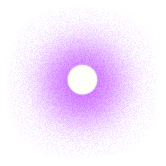
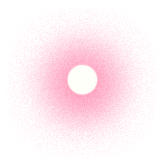
info location and custom bckground system

Changed region(s): [[0.2108, 0.2108, 0.7831, 0.7831]]

diff --git a/index.html b/index.html
@@ -66,9 +66,21 @@
         </div>
 
         <!-- STATIC -->
+        <div id="zero">
+            <div class="flex">
+                <h1>EARTHRISE<br>Zhōuwéi Network</h1>
+                <h2>A Hybrid Reality Game</h2>
+                <br>
+                <img src="intro.png" />
+                <br><br>
+                <button style='min-width: 100px;' onclick="$('#intro').fadeIn();$('#zero').fadeOut();">START!</button>
+            </div>
+        </div>
+
+        <!-- STATIC -->
         <div id="intro" style="position: absolute; z-index: 500;">
             <div class="flex">
-                <h1>EARTHRISE <br> Zhōuwéi Network</h1>
+                <h1>EARTHRISE<br>Zhōuwéi Network</h1>
                 <h2>A Hybrid Reality Game</h2>
                 <p>✦ Use of headphones and mobile data is recommended for best experience.</p>
                 <p>✧ This game can be played in one or multiple days.</p>
@@ -79,17 +91,35 @@
                 <br>
                 <br>
                 <div>
-                    <button onclick="reloadIntro();">Reload Audio</button>
-                    <button onclick="skipIntro();">Skip Audio</button>
+                    <button style='min-width: 100px;' onclick="reloadIntro();">Reload Audio</button>
+                    <button style='min-width: 100px;' onclick="skipIntro();">Skip Audio</button>
                 </div>
             </div>
         </div>
+
+        <div id="storyline" style="position: absolute; z-index: 500;">
+            <div class="story">
+            <div class="flex">
+                    <h1>Welcome</h1>
+                    <br>                
+                    <p>Three parallel future time zones of 2041 are rising from the soil beneath the city of rotterdam.<br><br>
+                    Find the different sceneries which showcase one of these worlds to discover their hidden societies. Learn their secret language and find their hidden messages to make contact and complete the six main locations to be led to the final stage in which you will be trusted with a glimpse of the future. Play it all in one go or spread it out over a few days and return.</p>                       
+                    <br> 
+            <button style='min-width: 100px;' onclick="$('#instructions').fadeIn(); $('#storyline').fadeOut();">Next</button>
+            <br> 
+            <br> 
+            <br> 
+            <br> 
+            <br> 
+            </div>
+        </div>
+        </div>
+
         <div id="instructions" style="position: absolute; z-index: 500;">
             <div class="flex">
-                <div class="scroll">
-                    <p>Three parallel future time zones of 2041 are rising from the soil beneath the city of rotterdam.<br><br>
-                    Find the different sceneries which showcase one of these worlds to discover their hidden societies. Learn their secret language and find their hidden messages to make contact and complete the six main locations to be led to the final stage in which you will be trusted with a glimpse of the future. Play it all in one go or spread it out over a few days and return.</p>
-                    <h1>Instructions</h1>                   
+                <div class="scroll">             
+                    <h1>Instructions</h1>   
+                    <br>                
                     <p>✧ Smartphone and headphones needed!</p>
                     <p>✦ Find symbol in given location on map</p>
                     <p>✧ Translate symbol with dictionary inside app</p>
@@ -99,7 +129,7 @@
                     <p>✧ Game will give you your next location</p>
                     <p>✦ Complete six locations for the game to reveal your final spot</p><br>
                 </div>
-            <button onclick="checkCookies(); location.reload()">Close Me</button>
+            <button style='min-width: 100px;' onclick="checkCookies(); location.reload()">Start the Game</button>
             </div>
         </div>
 
@@ -107,7 +137,8 @@
         <div id="instructionsButton" style="position: absolute; z-index: 300;">
             <div class="flex">
                 
-                <h1>Instructions</h1>                   
+                <h1>Instructions</h1>
+                <br>                    
                 <p>✧ Smartphone and headphones needed!</p>
                 <p>✦ Find symbol in given location on map</p>
                 <p>✧ Translate symbol with dictionary inside app</p>
@@ -193,7 +224,6 @@
             <div class="flex">
             <h1>2041</h1>
             <img id="bigWhite" src="worlds/white.png" />
-            <button onclick="realEnd()">Start Again</button>
         </div>
         </div>        
 
@@ -211,7 +241,7 @@
                 $('#intro').fadeOut()
                 intromp3.pause()
                 intromp3.currentTime=0;
-                $('#instructions').fadeIn()
+                $('#storyline').fadeIn()
 
             }
 

diff --git a/app.js b/app.js
@@ -153,13 +153,13 @@ var customIconBack={
 }
 
 var flexBck={
-  "x1": "linear-gradient(129deg, #c7c7c7,#4b4b4b);",
-  "x2": "linear-gradient(129deg, #c7c7c7,#4b4b4b);",
-  "x3": "linear-gradient(129deg, #c7c7c7,#4b4b4b);",
-  "x4": "linear-gradient(129deg, #c7c7c7,#4b4b4b);",
-  "x5": "linear-gradient(129deg, #c7c7c7,#4b4b4b);",
-  "x6": "linear-gradient(129deg, #c7c7c7,#4b4b4b);",
-  "x7": "linear-gradient(129deg, #c7c7c7,#4b4b4b);"
+  "x1": "linear-gradient(129deg, #6e66cf,#fd729f)",
+  "x2": "linear-gradient(129deg, #6e66cf,#fd729f)",
+  "x3": "linear-gradient(129deg, #4342bd,#6e66cf)",
+  "x4": "linear-gradient(129deg, #4342bd,#6e66cf)",
+  "x5": "linear-gradient(129deg, #4fe98d,#8af9b7)",
+  "x6": "linear-gradient(129deg, #4fe98d,#8af9b7)",
+  "x7": "linear-gradient(129deg, #fff191,#fcefc9)"
 }
 
 var worldIcon= {
@@ -189,7 +189,7 @@ console.log(co)
 
 // SHOW INTRO
 if  (Object.entries(co).length === 0){
-  var intro = $( "#intro" );
+  var intro = $( "#zero" );
   if (intro.css('display', 'none') ) {
     intro.fadeIn();
   } 
@@ -223,11 +223,11 @@ let current = currents[0]
 
 //Next Location Info
 if (current == 'x7'){
-  $( "#infoPlace" ).html(`<div class="flex"><h1>Next Location Info</h1><br><h1>${title[current]}</h1><br><p>${getSymb[current]}</p><br><button onclick="$('#infoPlace').fadeOut()">Go!</button></div>`)
+  $( "#infoPlace" ).html(`<div class="flex"><h1>Next Location Info</h1><br><h1>${title[current]}</h1><br><p>${getSymb[current]}</p><br><button style='min-width: 100px;' onclick="$('#infoPlace').fadeOut()">Go!</button></div>`)
 } else {
   $( "#infoPlace" ).html(`<div class="flex"><h1>Next Location Info</h1><br><h1>${title[current]}</h1><br><audio src="${audioWhileX[current]}" controls></audio><br><p>${getSymb[current]}</p><br><button style='min-width: 100px;' onclick="$('#infoPlace').fadeOut()">Go!</button></div>`)
 }
-$( ".flex" ).css("background",flexBck[current])
+$( ".flex" ).css("background", flexBck[current])
 $( "#infoPlace" ).fadeIn()
 
 
@@ -373,7 +373,7 @@ let lexicon = L.easyButton('fa-key', function(btn, map){
 L.easyButton('fa-forward', function(btn, map){
   $( "#infoPlace" ).fadeIn()
   if (current == 'x7'){
-    $( "#infoPlace" ).html(`<div class="flex"><h1>Next Location Info</h1><br><h1>${title[current]}</h1><br><p>${getSymb[current]}</p><br><button onclick="$('#infoPlace').fadeOut()">Close Me</button></div>`)
+    $( "#infoPlace" ).html(`<div class="flex"><h1>Next Location Info</h1><br><h1>${title[current]}</h1><br><p>${getSymb[current]}</p><br><button style='min-width: 100px;' onclick="$('#infoPlace').fadeOut()">Close Me</button></div>`)
   } else {
     $( "#infoPlace" ).html(`<div class="flex"><h1>Next Location Info</h1><br><h1>${title[current]}</h1><br><audio src="${audioWhileX[current]}" controls></audio><br><p>${getSymb[current]}</p><br><button style='min-width: 100px;' onclick="$('#infoPlace').fadeOut()">Close Me</button></div>`)
   }
@@ -406,6 +406,8 @@ function closeMe0(){
 
   $("#bigWhite").attr('src', bck);
   $("#showPic").append(`<img style="filter:invert(100%)" src="${customIcon[currP][0]}"/>`);
+  $( "img" ).css('top','0');
+  $( "img" ).css('width','80%');
 }
 
 function closeMe1(){
@@ -413,12 +415,15 @@ function closeMe1(){
   deleteItem();
   let currP = current.replace("x","p");
   console.log(currP);
-  Cookies.set(currP,0, { expires: 60 });
+  Cookies.set(currP,1, { expires: 60 });
 
   $( "#showPicBack" ).fadeIn();
   
   $("#bigWhite").attr('src',bck);
   $("#showPic").append(`<img style="filter:invert(100%)" src="${customIcon[currP][1]}"/>`);
+  $( "img" ).css('top','0');
+  $( "img" ).css('width','80%');
+
 }
 
 
@@ -433,6 +438,8 @@ function endd(){
     $('#customPicEnd').fadeIn();
     $('#end').fadeOut()
     showCustomGraph("#customPicEnd");
+    $('#customPicEnd').append('<button onclick="realEnd()">Start Again</button>')
+
 }
 
 function realEnd(){

diff --git a/style.css b/style.css
@@ -116,9 +116,6 @@
         display: none;
     }
 
-    .flex{
-        /* background: linear-gradient(129deg, #c7c7c7,#777777); */
-    }
 
     .flex h1{
         font-family: title;
@@ -140,6 +137,16 @@
 
     #instructions{
         display: none;
+    }
+
+    #storyline{
+        display: none;
+
+    }
+
+    .story.flex{
+        min-height: 100%;
+        min-width: 100%;
     }
     
     #instructionsButton{
@@ -270,11 +277,12 @@ font-family: title;
     position: absolute;
     width: 40%;
     height: 5%;
-    top: 0;
-    bottom: 30%;
+    top: 70%;
+    bottom: 0;
     left: 0;
     right: 0;
     margin: auto;
+    z-index: 5000;
   }
 
 
@@ -328,6 +336,18 @@ font-family: title;
     width: 60%;
 }
 
+
+#zero{
+    display: none;
+    position: relative;
+    z-index: 5000;
+    width: 100%;
+    height: 100%;
+}
+
+#zero img{
+    width: 60%;
+}
 
 
 
